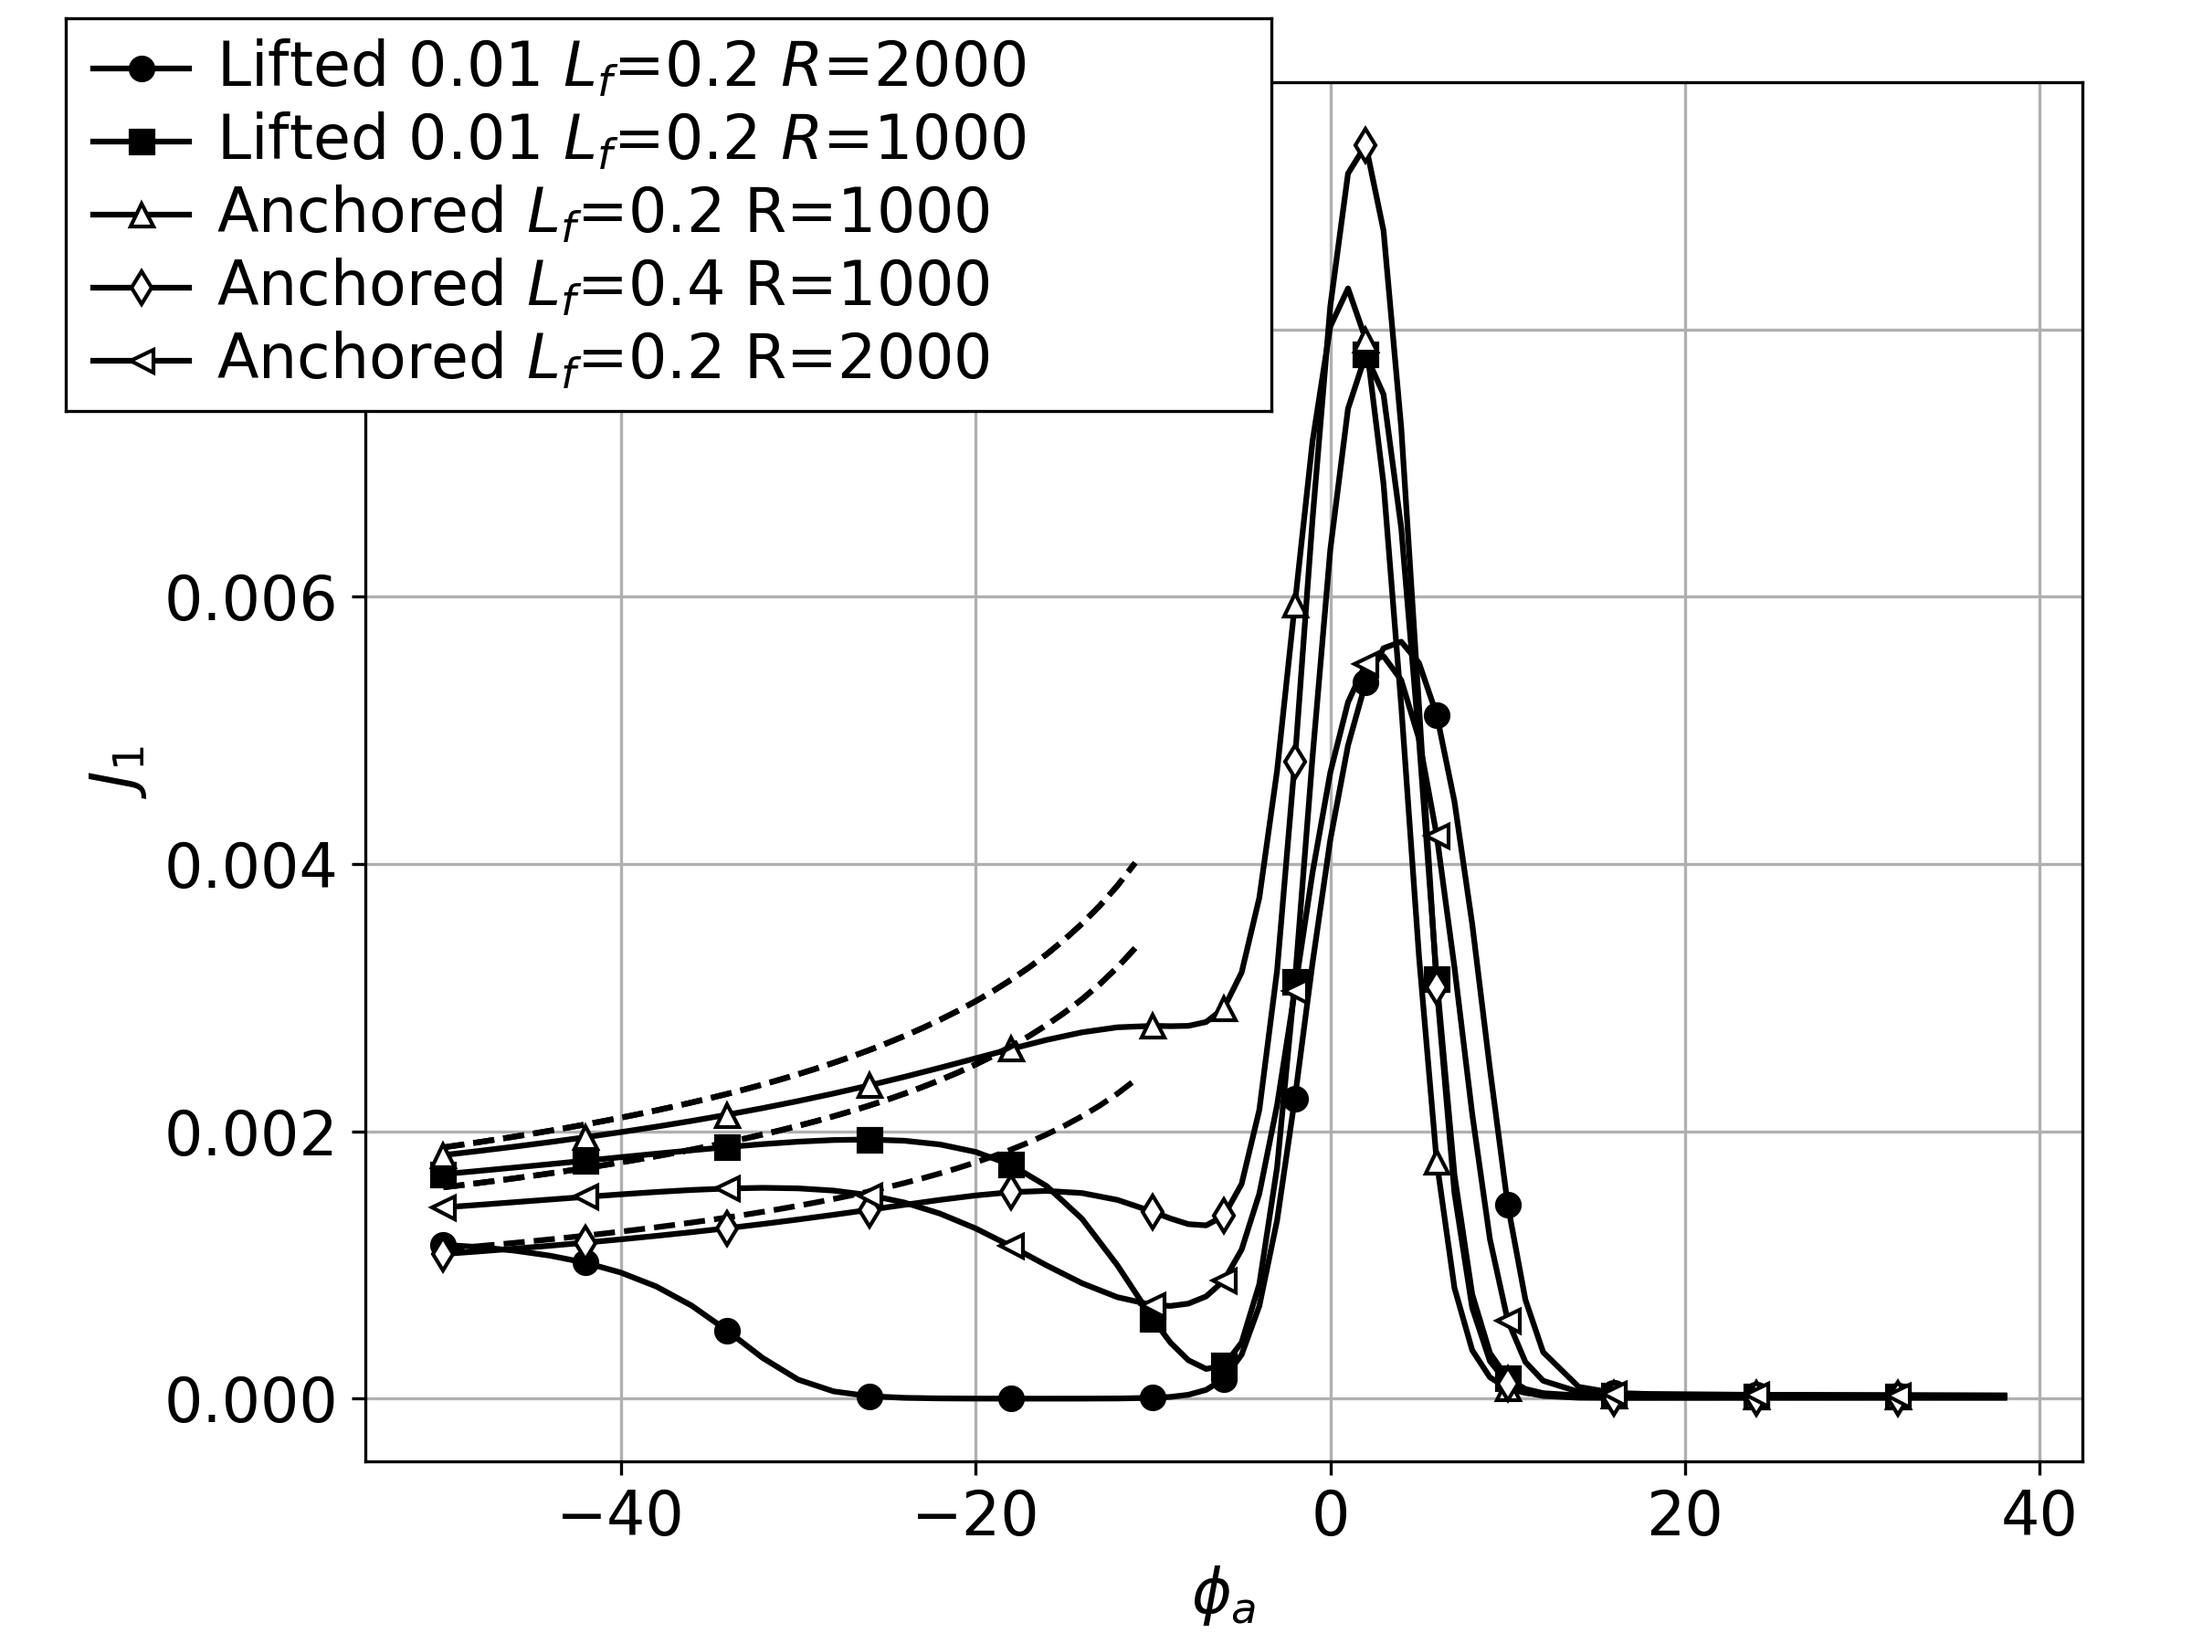
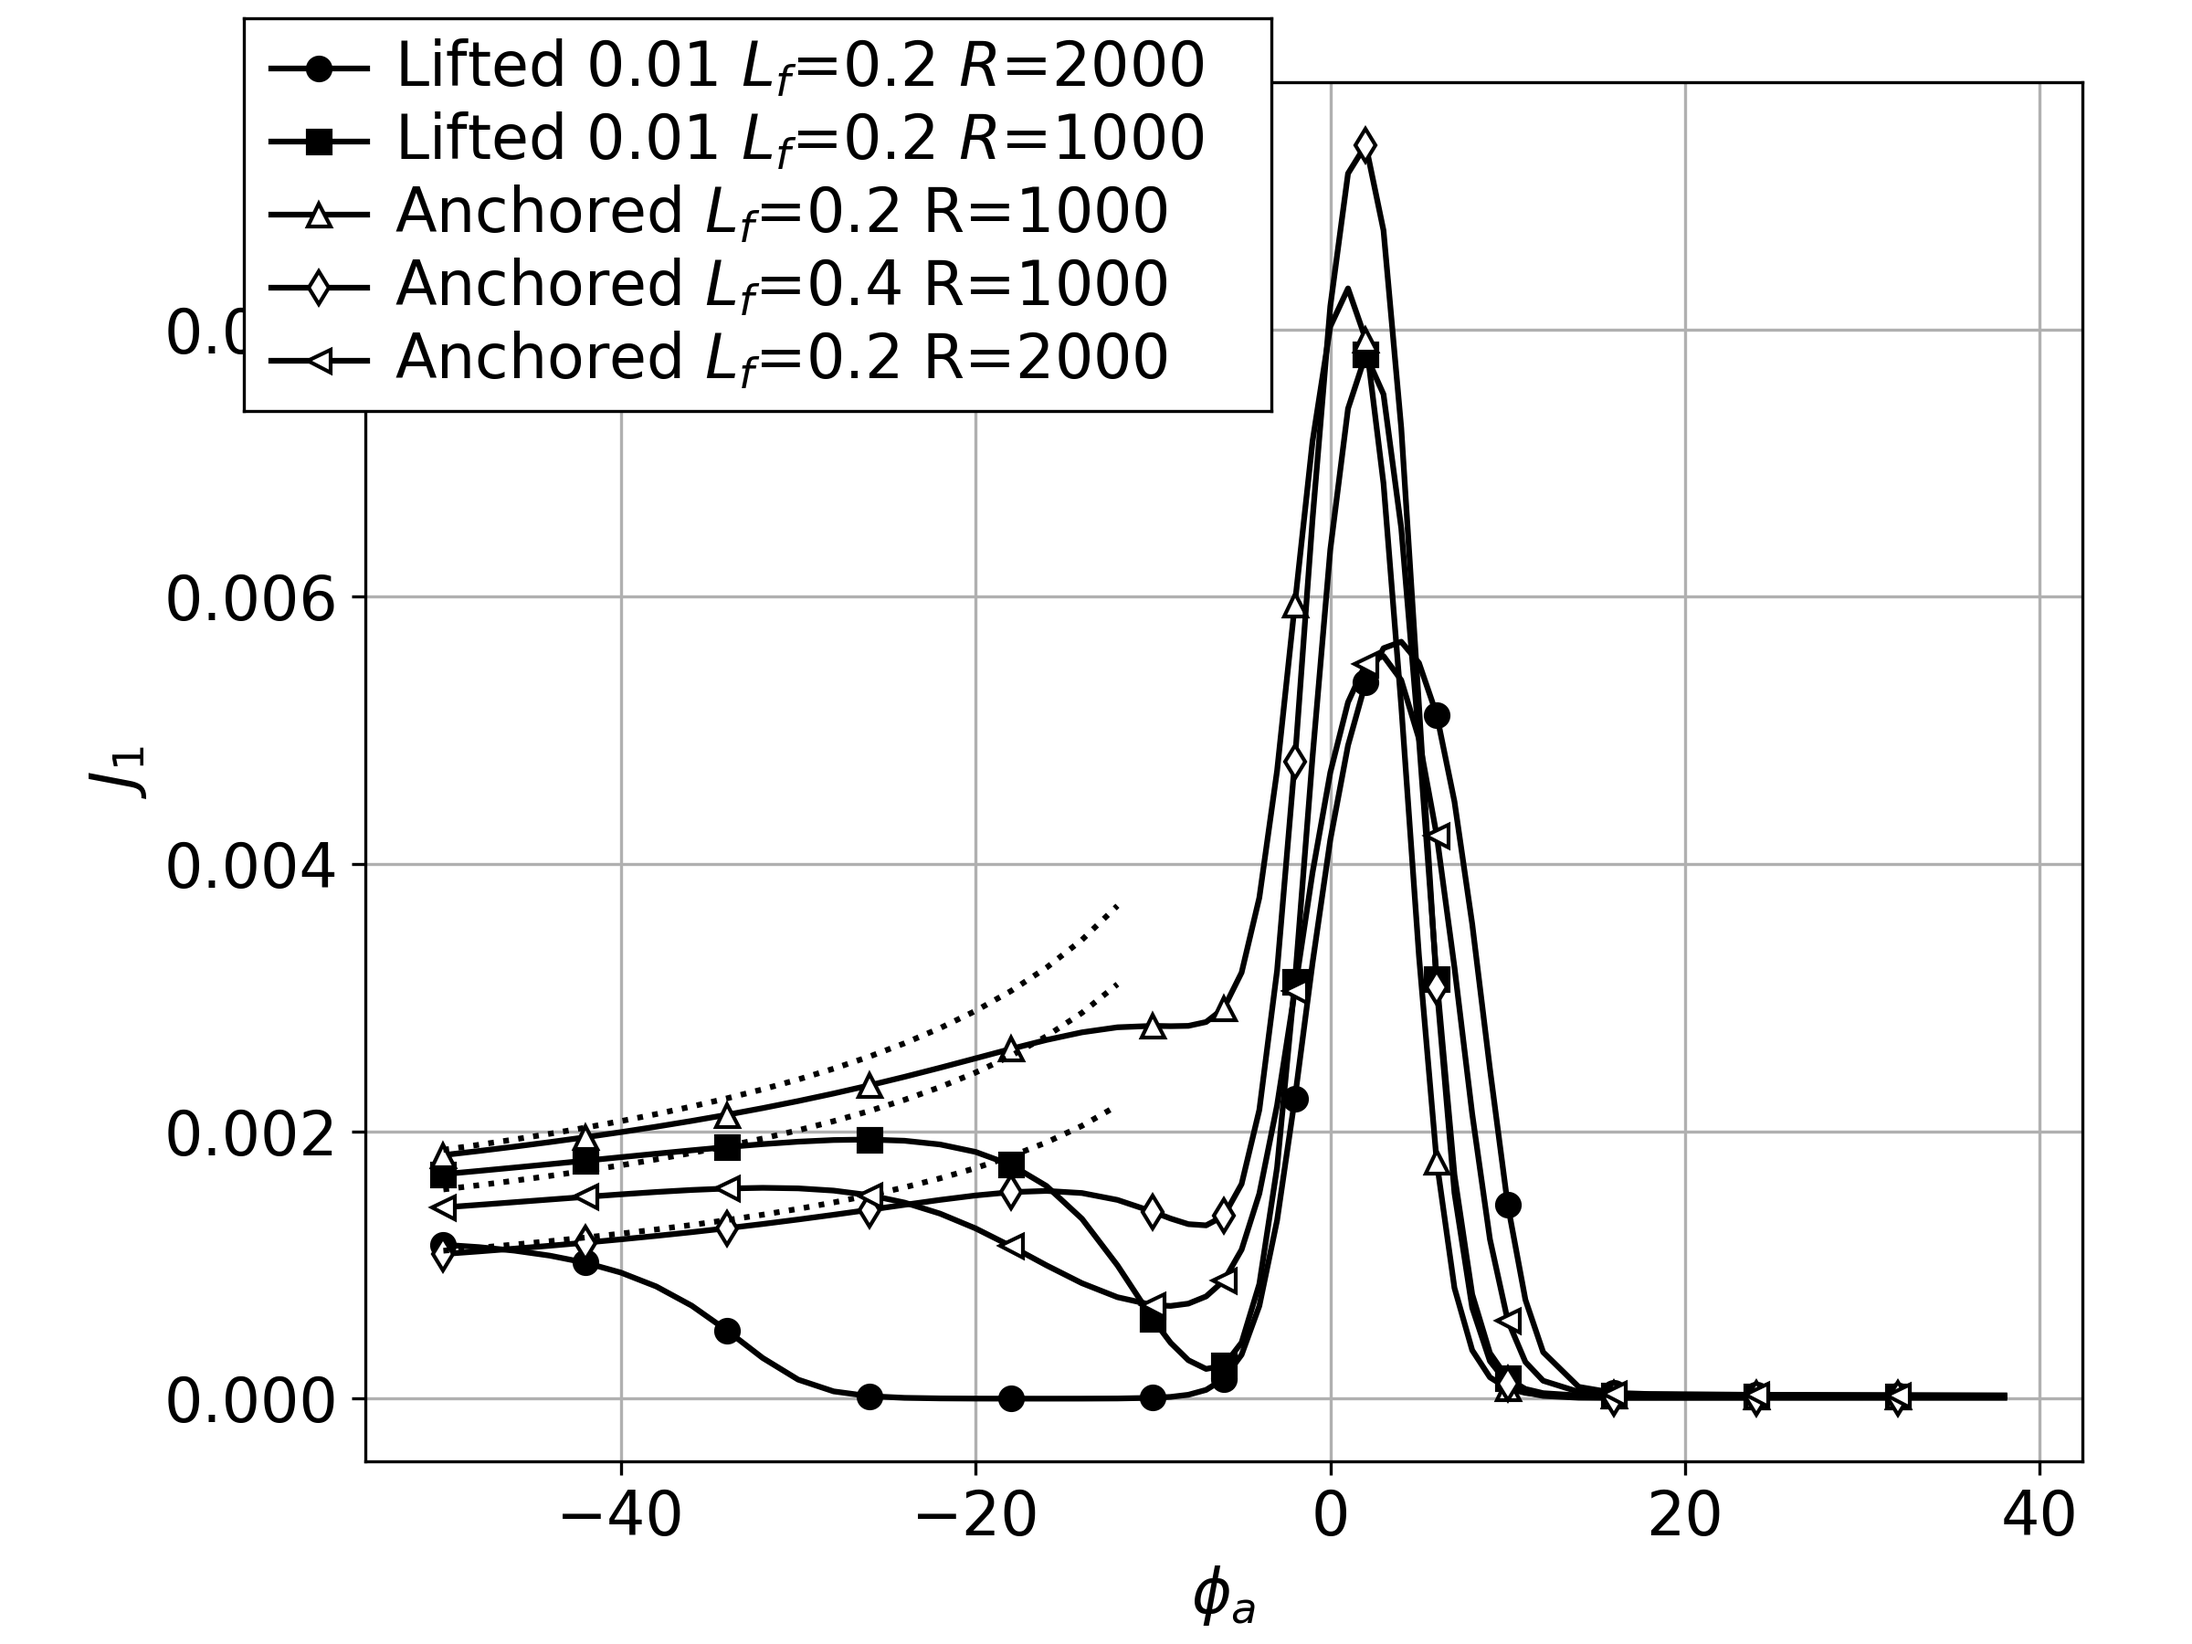
Revisions for ctm2020 plot output

diff --git a/model1/source/plotall.py b/model1/source/plotall.py
@@ -40,26 +40,62 @@ if False:
         ax2.plot(p.z,p.phi,'k:')
         ax2.plot(p.z[::downsample], p.phi[::downsample], **mkr)
         fmt.append([mkr, '${{\phi}}_a$={:.2f}'.format(p.param.phia)])
+        
+        # # Asymptotic bulk solution
+        # eta_infty = np.sqrt(p.param.omega/p.param.beta)
+        # z = np.linspace(p.param.z1, p.param.z2,11)
+        # eta = eta_infty * (1 - 2/(1 + np.exp(2*eta_infty*p.param.beta*(z-p.param.z1))))
+        # ax1.plot(z,eta,'k:')
+        # eta2 = eta_infty * (1 - 2/(1 + np.exp(2*eta_infty*p.param.beta*(p.param.z2-p.param.z1))))
+        # z = np.linspace(p.param.z2, 1,21)
+        # eta = eta2 / ( 1 + p.param.beta*eta2* (z-p.param.z2))
+        # ax1.plot(z,eta,'k:')
+
+        # Add asymptotic solutions
+        if p.param.phia < -10:
+            phip = 1.
+            etas = np.sqrt(p.param.R * p.param.alpha**2 * p.param.omega / p.param.tau)
+            k1 = np.asscalar(np.where(p.z == p.param.z1)[0])
+            phi1 = p.phi[k1]
+            Kz = (4*p.param.alpha**2 * p.param.tau / p.param.R / p.param.omega)**.25
+            zs = p.param.z1 + Kz*(phip-phi1)**.5
+            z0 = (zs + p.param.z1)*.5 - 0.5*p.param.alpha**2*p.param.R/p.param.tau/etas
+            
+            z = np.linspace(0,p.param.z1,11)
+            ax1.plot(z, etas * (z0-p.param.z1)**.5 / (z0-z)**.5, 'k:')
+            ax1.plot([p.param.z1, zs], [etas, etas], 'k:')
+
 
     ax1.set_xlim([0,1])
     ax2.set_xlim([0,1])
     ax2.set_ylim([-50,50])
 
+    ax3 = lplot.floating_legend(ax1.figure, loc=(.23,.35), loc_edge='lt', fmt=fmt, vpadding_inches=.1, markerw_inches=.3, width_inches=2)
+
     ax1.figure.savefig(os.path.join(exportdir, 'case2.png'))
     # Remove the phi axes and zoom in on the sheaths
     ax2.remove()
 
-    ax2 = lplot.floating_legend(ax1.figure, loc=(.5,.5), loc_edge='lt', fmt=fmt, vpadding_inches=.1, markerw_inches=.3)
+    pos = ax3.get_position()
+    h,w = pos.height,pos.width
+    pos.x0,pos.y0 = .2,.6
+    pos.x1,pos.y1 = pos.x0+w,pos.y0 + h
+    ax3.set_position(pos)
+
     ax1.set_xlim([0,.06])
     ax1.set_ylim([0,.15])
+        
     ax1.figure.savefig(os.path.join(exportdir, 'tsheath.png'))
-    p = ax2.get_position()
-    h = p.height
-    p.y0 = .7
-    p.y1 = p.y0 + h
-    ax2.set_position(p)
+    
+    pos = ax3.get_position()
+    h,w = pos.height,pos.width
+    pos.x0,pos.y0 = .5,.65
+    pos.x1,pos.y1 = pos.x0+w,pos.y0 + h
+    ax3.set_position(pos)
+    
     ax1.set_xlim([.9,1])
     ax1.set_ylim([0,.1])
+    
     ax1.figure.savefig(os.path.join(exportdir, 'wsheath.png'))
 
     plt.close('all')
@@ -70,6 +106,7 @@ if True:
     ax1 = lplot.init_fig('${\phi}_a$', '$J$', label_size=16)
     ax2 = lplot.init_fig('${\phi}_a$', '${J_1}$', label_size=16)
     ax3 = lplot.init_fig('${\phi}_a$', '$J$', label_size=16)
+    ax4 = lplot.init_xxyy(
 
     downselect = 4
 
@@ -86,8 +123,11 @@ if True:
         J1 = []
         Fi = []
         Fe = []
+        phi1 = []
         for source in os.listdir(datadir):
             p = ion1d.PostIon1D(os.path.join(datadir,source))
+            k1 = np.asscalar(np.nonzero(p.z==p.param.z1)[0])
+            phi1.append(p.phi[k1])
             phia.append(p.param.phia)
             J.append(p.J)
             J1.append(p.J1)
@@ -95,6 +135,7 @@ if True:
             Fe.append(p.Fe[1])
         
         phia = np.asarray(phia)
+        phi1 = np.asarray(phi1)
         J = np.asarray(J)
         J1 = np.asarray(J1)
         Fi = np.asarray(Fi)
@@ -102,36 +143,59 @@ if True:
         
         ii = np.argsort(phia)
         phia = phia[ii]
+        phi1 = phi1[ii]
         J = J[ii]
         J1 = J1[ii]
         Fi = Fi[ii]
         Fe = Fe[ii]
         
-        phia_asym = np.arange(-50,-10,1)
-        J1_asym = (p.param.alpha**2 * p.param.tau * p.param.omega**3 / p.param.R)**.25 / np.sqrt(2)
-        J1_asym *= 1/np.sqrt(-phia_asym)
-        ax2.plot(phia_asym, J1_asym, 'k--')
+        # Calculate some parameters for the asymptotic solution
+        aa = p.param.alpha**2
+        R=p.param.R; z1=p.param.z1; tau=p.param.tau
+        etas = np.sqrt(aa * p.param.R * p.param.omega/p.param.tau)
+        Kz = np.sqrt(2*aa/etas)
+        phip = 1.
         
         if p.model is ion1d.FiniteIon1D:
+            # Asymptotic solution
+            #phi1 = phia[ii] + p.param.R*p.param.z1/p.param.tau
+            phi1_asym = np.arange(-35.,-10.,2.)
+            z01 = 0.5*Kz*np.sqrt(phip-phi1_asym) - aa*R/(2*p.param.tau*etas)
+            z0 = z1 + z01
+            #phia_asym = phi1_asym - R*z1/tau
+            phia_asym = -R*z1/tau + 1.25*etas/aa * (z01**2 - z0**1.5*z01**.5) + phi1_asym
+            J_asym = etas - p.param.omega*Kz*(phip-phi1_asym)**.5
+
             mkr.update({'mfc':'k'})
             ax1.plot(phia, J, 'k-')
             ax1.plot(phia[::downselect], J[::downselect], **mkr)
             ax2.plot(phia, J1, 'k-')
             ax2.plot(phia[::downselect], J1[::downselect], **mkr)
+            ax1.plot(phia_asym, J_asym, 'k:')
             
             ax3.plot(phia, Fi, 'k-')
             ax3.plot(phia[::downselect], Fi[::downselect], **mkr)
             ax3.plot(phia, -Fe, 'k--')
             ax3.plot(phia[::downselect], -Fe[::downselect], **mkr)
             
+            ax4.plot(phia, phi1, 'k-')
+            ax4.plot(phia_asym, phi1_asym, 'k:')
+            
             mkr.update({'ls':'-', 'color':'k'})
             fmt.append([mkr, 'Lifted {:.2f} $L_f$={:.1f} $R$={:.0f}'.format(p.param.z1, p.param.z2-p.param.z1, p.param.R)])
+            
 
         else:
+            phia_asym = np.arange(-50.,-10.,2.)
+            J_asym = etas - p.param.omega*Kz*(phip-phia_asym)**.5
+            J1_asym = 0.5*p.param.omega*Kz*(phip-phia_asym)**-.5
+            
             ax1.plot(phia, J, 'k-')
             ax1.plot(phia[::downselect], J[::downselect], **mkr)
             ax2.plot(phia, J1, 'k-')
             ax2.plot(phia[::downselect], J1[::downselect], **mkr)
+            ax1.plot(phia_asym, J_asym, 'k:')
+            #ax2.plot(phia_asym, J1_asym, 'k:')
                         
             ax3.plot(phia, Fi, 'k-')
             ax3.plot(phia[::downselect], Fi[::downselect], **mkr)
@@ -140,14 +204,18 @@ if True:
             
             mkr.update({'ls':'-', 'color':'k'})
             fmt.append([mkr, 'Anchored $L_f$={:.1f} R={:.0f}'.format(p.param.z1, p.param.R)])
+            
 
-    lplot.floating_legend(ax1.figure, loc=(.42,.35), loc_edge='lt', fmt=fmt, vpadding_inches=.10, markerw_inches=.35)
+    ax1.set_xlim([-55, 40])
+    lplot.floating_legend(ax1.figure, loc=(.42,.35), loc_edge='lt', fmt=fmt, vpadding_inches=.10, markerw_inches=.35, width_inches=3.75)
     ax1.figure.savefig(os.path.join(exportdir, 'jphi.png'))
 
-    lplot.floating_legend(ax2.figure, loc=(.58,.75), loc_edge='rb', fmt=fmt, vpadding_inches=.10, markerw_inches=.35)
+    lplot.floating_legend(ax2.figure, loc=(.58,.75), loc_edge='rb', fmt=fmt, vpadding_inches=.10, markerw_inches=.35, width_inches=3.75)
     ax2.figure.savefig(os.path.join(exportdir, 'j1phi.png'))
 
     fmt.insert(0, [{'ls':'-','color':'k'}, 'Ion current (${\eta}$)'])
     fmt.insert(1, [{'ls':'--','color':'k'}, 'Electron current (${\\nu}$)'])
-    lplot.floating_legend(ax3.figure, loc=(.55, .45), loc_edge='lt', fmt=fmt, vpadding_inches=.1, markerw_inches=.35)
+    lplot.floating_legend(ax3.figure, loc=(.5, .45), loc_edge='lt', fmt=fmt, vpadding_inches=.1, markerw_inches=.35, width_inches=3.75)
     ax3.figure.savefig(os.path.join(exportdir, 'fphi.png'))
+
+    ax4.figure.savefig(os.path.join(exportdir, 'phiphi,png'))

diff --git a/model1/source/miscpy/lplot.py b/model1/source/miscpy/lplot.py
@@ -227,7 +227,7 @@ axes from the containing plot.
         ax2.set_position(p)
         
         
-def floating_legend(fig, loc, fmt, loc_edge='lt', vpadding_inches=.05, hpadding_inches=.1, markerw_inches=.2, label_size=None):
+def floating_legend(fig, loc, fmt, loc_edge='lt', vpadding_inches=.05, hpadding_inches=.1, markerw_inches=.2, label_size=None, width_inches=None):
     """FLOATING_LEGEND generate a new axes that serves as a floating legend
     fmt.append([{'lc':'k', 'marker':'o', 'mfc':'w', 'mec':'k'}, 'Data set 1' ])
     fmt.append([{'lc':'k', 'marker':'D', 'mfc':'w', 'mec':'k'}, 
@@ -258,7 +258,8 @@ def floating_legend(fig, loc, fmt, loc_edge='lt', vpadding_inches=.05, hpadding_
             mcol_width_inches)
 
     # Calculate the total width
-    width_inches = mcol_width_inches + lcol_width_inches + 3*hpadding_inches
+    if width_inches is None:
+        width_inches = mcol_width_inches + lcol_width_inches + 3*hpadding_inches
     # Calculate the total height
     height_inches = len(fmt) * (char_height_inches + vpadding_inches) + vpadding_inches
     
